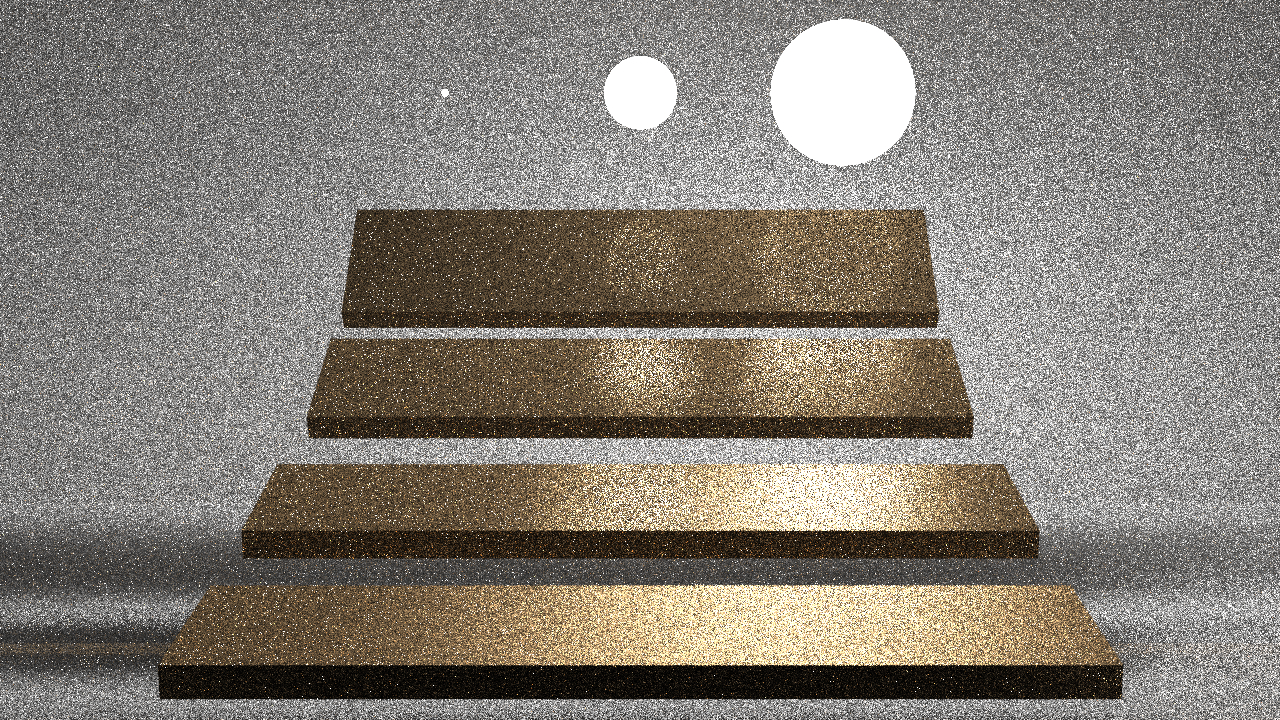
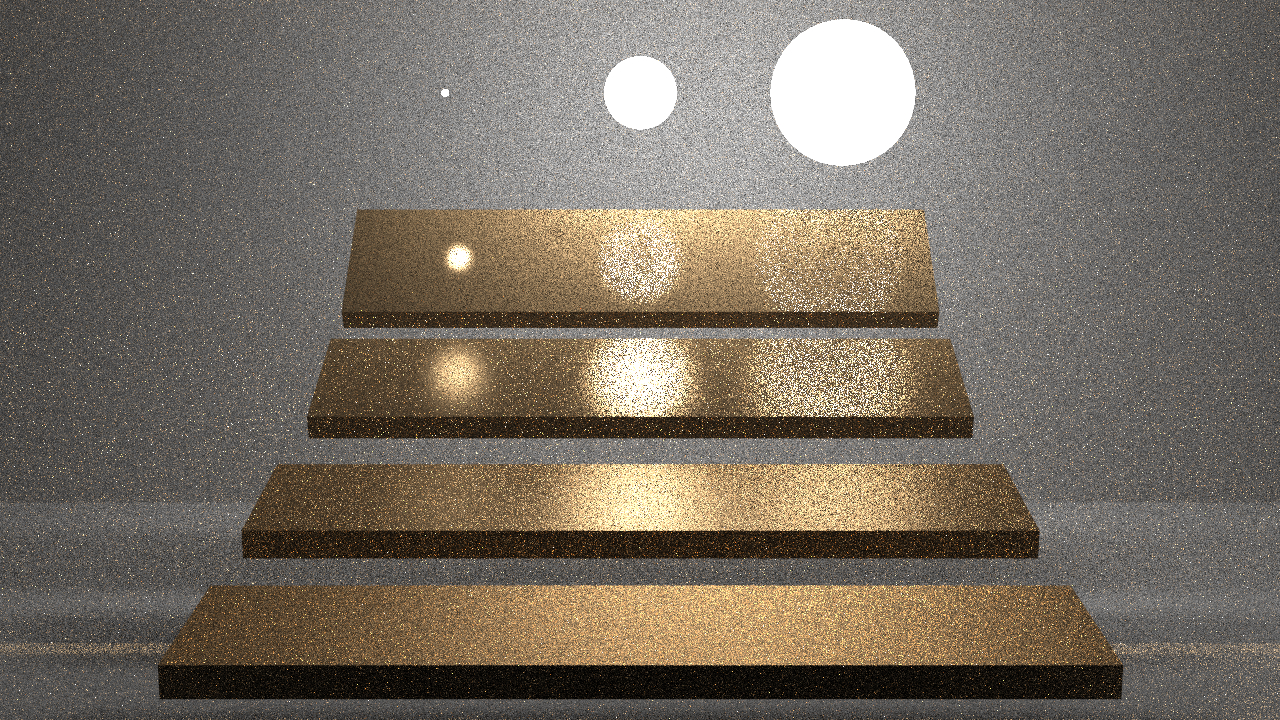
use PT possibility

diff --git a/main.cpp b/main.cpp
@@ -23,7 +23,7 @@
 using namespace glm;
 
 std::string dataPath = "data/";
-std::string sceneName = "veach-mis";
+std::string sceneName = "cornell-box";
 
 int materialNum = 0;
 Material* materialList = NULL;
@@ -52,7 +52,7 @@ Light* LoadLight();
 void LoadOBJ();
 
 const float RRThreshold = 0.8f;
-int SPP = 256;
+int SPP = 32;
 std::vector<PathPoint> paths;
 float* result;
 float maxResult = 0.0f;
@@ -65,7 +65,7 @@ IntersectionType intersectionTypeCheck(Ray r, float& t, IntersectionPoint& IP);
 extern bool CUDAIntersectionCheck(Ray r, float& t, IntersectionPoint& IP);
 vec3 pathTracing(IntersectionPoint IP, vec3 wo);
 vec3 bidirectionalPathTracing(IntersectionPoint IP, vec3 wo);
-vec3 MISCombine(std::vector<PathPoint>& cameraPath, vec3 cameraDirection, std::vector<PathPoint>& lightPath);
+vec3 MISCombine(std::vector<PathPoint>& cameraPath, vec3 cameraDirection, std::vector<PathPoint>& lightPath, Light* light);
 
 float ACESToneMapping(float color, float adapted_lum);
 float ACESFilm(float x);
@@ -86,7 +86,7 @@ int main() {
 	result = new float[cam->Width() * cam->Height() * 3];
 	image = new char[cam->Width() * cam->Height() * 3];
 
-	#pragma omp parallel for
+#pragma omp parallel for
 	for (int i = 0; i < cam->Width(); i++) {
 		for (int j = 0; j < cam->Height(); j++) {
 
@@ -100,7 +100,7 @@ int main() {
 
 				Ray r = cam->pixelRay(i, j);
 
-				if (i == 72 && j == cam->Height() - 37) {
+				if (i == 257 && j == cam->Height() - 553) {
 
 					bool xx = true;
 
@@ -148,9 +148,9 @@ int main() {
 
 	}
 
-	for (int i = 0; i < cam->Width(); i++) 
+	for (int i = 0; i < cam->Width(); i++)
 		for (int j = 0; j < cam->Height(); j++)
-			for (int k = 0; k < 3; k++) 
+			for (int k = 0; k < 3; k++)
 				image[(i + (cam->Height() - j - 1) * cam->Width()) * 3 + k] = pow(result[(j + i * cam->Height()) * 3 + k], 1.0f / gamma) * 255.0f;
 
 
@@ -158,7 +158,7 @@ int main() {
 
 }
 
-float ACESToneMapping(float color, float adapted_lum){
+float ACESToneMapping(float color, float adapted_lum) {
 
 	const float A = 2.51f;
 	const float B = 0.03f;
@@ -200,8 +200,8 @@ bool intersectionCheck(Ray r, float& t, IntersectionPoint& IP) {
 		}
 
 	}
-	/*double tmp_timing_finish = omp_get_wtime(); 
-	double tmp_timing_duration = tmp_timing_finish - tmp_timing_start; 
+	/*double tmp_timing_finish = omp_get_wtime();
+	double tmp_timing_duration = tmp_timing_finish - tmp_timing_start;
 	printf("CPU Time to compute : %.5f ns\n", tmp_timing_duration * 1e6);*/
 	return flag;
 
@@ -356,7 +356,7 @@ int randomLight() {
 
 }
 
-vec3 MISCombine(std::vector<PathPoint>& cameraPath, vec3 cameraDirection, std::vector<PathPoint>& lightPath) {
+vec3 MISCombine(std::vector<PathPoint>& cameraPath, vec3 cameraDirection, std::vector<PathPoint>& lightPath, Light* light) {
 
 	float sumP = 0.0f;
 	bool flag = false;
@@ -364,7 +364,7 @@ vec3 MISCombine(std::vector<PathPoint>& cameraPath, vec3 cameraDirection, std::v
 	int* paths = new int[cameraPath.size() + lightPath.size()]();
 	vec3* pathResult = new vec3[cameraPath.size() + lightPath.size()]();
 	float* pathPDF = new float[cameraPath.size() + lightPath.size()]();
-	
+
 	for (int i = 0; i < cameraPath.size(); i++) {
 
 		for (int j = 0; j < lightPath.size(); j++) {
@@ -384,8 +384,9 @@ vec3 MISCombine(std::vector<PathPoint>& cameraPath, vec3 cameraDirection, std::v
 				flag = true;
 				sumP += cameraPath[i].p * lightPath[j].p;
 				vec3 currentResult = lightPath[0].ip.mat->GetLightRadiance();
+				int k = 1;
 
-				for (int k = 1; k <= j; k++) {
+				for (; k <= j; k++) {
 
 					vec3 wi = lightPath[k - 1].ip.p - lightPath[k].ip.p;
 					float len = length(wi) * length(wi);
@@ -393,27 +394,68 @@ vec3 MISCombine(std::vector<PathPoint>& cameraPath, vec3 cameraDirection, std::v
 					vec3 wo = k == j ? normalize(cameraPath[i].ip.p - lightPath[j].ip.p) : normalize(lightPath[k + 1].ip.p - lightPath[k].ip.p);
 					vec3 BRDF = lightPath[k].ip.mat->phongModelBRDF(wi, wo, lightPath[k].ip.n, lightPath[k].ip.uv);
 					float G = max(dot(lightPath[k - 1].ip.n, -wi), 0.0f) * max(dot(lightPath[k].ip.n, wi), 0.0f) / len;
-					float COS = max(dot(lightPath[k].ip.n, wi), 0.0f) * max(dot(lightPath[k - 1].ip.n, -wi), 0.0f);
+					float COS = max(dot(lightPath[k].ip.n, wi), 0.0f)/* * max(dot(lightPath[k - 1].ip.n, -wi), 0.0f)*/;
 					currentResult = currentResult * COS * BRDF;
 
 				}
 
-				for (int k = i; k >= 0; k--) {
+				k = i;
 
-					vec3 wi = k == i? lightPath[j].ip.p - cameraPath[k].ip.p : cameraPath[k + 1].ip.p - cameraPath[k].ip.p;
+				if (j == 0) {
+
+					vec3 wi = lightPath[0].ip.p - cameraPath[i].ip.p;
+					float len = length(wi) * length(wi);
+					wi = normalize(wi);
+					vec3 wo = i == 0 ? cameraDirection : normalize(cameraPath[i - 1].ip.p - cameraPath[i].ip.p);
+					vec3 BRDF = cameraPath[i].ip.mat->phongModelBRDF(wi, wo, cameraPath[i].ip.n, cameraPath[i].ip.uv);
+					float G = max(dot(cameraPath[i].ip.n, wi), 0.0f) * max(dot(lightPath[0].ip.n, -wi), 0.0f) / len;
+					currentResult = currentResult * G * BRDF * light->area();
+					k--;
+
+				}
+
+				for (; k >= 0; k--) {
+
+					vec3 wi = k == i ? lightPath[j].ip.p - cameraPath[k].ip.p : cameraPath[k + 1].ip.p - cameraPath[k].ip.p;
 					float len = length(wi) * length(wi);
 					wi = normalize(wi);
 					vec3 wo = k == 0 ? cameraDirection : normalize(cameraPath[k - 1].ip.p - cameraPath[k].ip.p);
 					vec3 BRDF = cameraPath[k].ip.mat->phongModelBRDF(wi, wo, cameraPath[k].ip.n, cameraPath[k].ip.uv);
 					float G = max(dot(k == i ? lightPath[j].ip.n : cameraPath[k + 1].ip.n, -wi), 0.0f) * max(dot(cameraPath[k].ip.n, wi), 0.0f) / len;
-					float COS = max(dot(k == i ? lightPath[j].ip.n : cameraPath[k + 1].ip.n, -wi), 0.0f) * max(dot(cameraPath[k].ip.n, wi), 0.0f);
+					float COS = /*max(dot(k == i ? lightPath[j].ip.n : cameraPath[k + 1].ip.n, -wi), 0.0f) * */max(dot(cameraPath[k].ip.n, wi), 0.0f);
 					currentResult = currentResult * COS * BRDF;
 
 				}
 
-				currentResult /= cameraPath[i].p * lightPath[j].p;
+				float p = 1.0f;
+				for (int k = 0; k < i; k++) {
+
+					p *= cameraPath[k].ip.mat->getDiffusePossibility(cameraPath[k].ip.n, normalize(cameraPath[k + 1].ip.p - cameraPath[k].ip.p), k == 0 ? cameraDirection : normalize(cameraPath[k - 1].ip.p - cameraPath[k].ip.p));
+
+				}
+
+				if (j != 0) {
+
+					p *= cameraPath[i].ip.mat->getDiffusePossibility(cameraPath[i].ip.n, normalize(lightPath[j].ip.p - cameraPath[i].ip.p), i == 0 ? cameraDirection : normalize(cameraPath[i - 1].ip.p - cameraPath[i].ip.p));
+
+					for (int k = j; k >= 2; k--) p *= lightPath[k].ip.mat->getDiffusePossibility(lightPath[k].ip.n, normalize(lightPath[k - 1].ip.p - lightPath[k].ip.p), normalize(k == j ? normalize(cameraPath[i].ip.p - lightPath[k].ip.p) : normalize(lightPath[k + 1].ip.p - lightPath[k].ip.p)));
+
+				}
+
+				if (j == 0) currentResult /= p;
+				else currentResult /= p * lightPath[0].p;
+
+				/*if (j != 0) currentResult /= cameraPath[i].p * lightPath[j].p;
+				else currentResult /= cameraPath[i].p;*/
+				//currentResult /= p;
 				pathResult[i + j] += currentResult;
 				pathPDF[i + j] += (cameraPath[i].p * lightPath[j].p);
+
+				if (currentResult.x < 1.0f && currentResult.y > 1.0f && currentResult.z < 1.0f) {
+
+					bool xx = true;
+
+				}
 
 			}
 
@@ -424,6 +466,7 @@ vec3 MISCombine(std::vector<PathPoint>& cameraPath, vec3 cameraDirection, std::v
 	if (!flag) return vec3(0);
 	for (int i = 0; i < cameraPath.size() + lightPath.size(); i++)
 		if (paths[i] != 0) MISResult += pathResult[i] / (1.0f * paths[i]);
+
 	return MISResult;
 
 }
@@ -452,7 +495,7 @@ vec3 bidirectionalPathTracing(IntersectionPoint IP, vec3 wo) {
 
 	}
 
-	Light* light = &lights[randomLight()];
+	Light* light = &lights[rand() % lightNum];
 	Ray lightRay;
 	std::vector<PathPoint> lightPath;
 	lightPath.clear();
@@ -486,6 +529,6 @@ vec3 bidirectionalPathTracing(IntersectionPoint IP, vec3 wo) {
 
 	}
 
-	return MISCombine(cameraPath, wo, lightPath);
+	return MISCombine(cameraPath, wo, lightPath, light);
 
 }

diff --git a/triangle.h b/triangle.h
@@ -85,7 +85,7 @@ public:
 
 	}
 
-	virtual vec3 uniformSampling(IntersectionPoint& IP) {
+	virtual float uniformSampling(IntersectionPoint& IP) {
 
 		float u1 = rand() * 1.0f / RAND_MAX;
 		float u2 = rand() * 1.0f / RAND_MAX;
@@ -94,7 +94,7 @@ public:
 		IP.n = (1 - u1) * sqrt(u2) * n[0] + u1 * sqrt(u2) * n[1] + (1 - sqrt(u2)) * n[2];
 		IP.uv = (1 - u1) * sqrt(u2) * uv[0] + u1 * sqrt(u2) * uv[1] + (1 - sqrt(u2)) * uv[2];
 
-		return (1 - u1) * sqrt(u2) * v[0] + u1 * sqrt(u2) * v[1] + (1 - sqrt(u2)) * v[2];
+		return 1.0f / this->area();
 
 	}
 
@@ -226,7 +226,7 @@ public:
 
 	}
 
-	virtual vec3 uniformSampling(IntersectionPoint& IP) {
+	virtual float uniformSampling(IntersectionPoint& IP) {
 
 		float p = rand() * 1.0f / RAND_MAX * A;
 		float a = 0;
@@ -243,7 +243,8 @@ public:
 
 		}
 
-		return t->uniformSampling(IP);
+		t->uniformSampling(IP);
+		return 1.0f / A;
 
 	}
 

diff --git a/light.h b/light.h
@@ -178,7 +178,7 @@ public:
 
 	}
 
-	virtual vec3 uniformSampling(IntersectionPoint& IP) {
+	virtual float uniformSampling(IntersectionPoint& IP) {
 
 		float p = rand() * 1.0f / RAND_MAX * A;
 		float a = 0;
@@ -195,14 +195,16 @@ public:
 
 		}
 
-		return m->uniformSampling(IP);
+		m->uniformSampling(IP);
+		return 1.0f / A;
 
 	}
 
 	vec3 randomLightRay(vec3 startPoint, Ray& r) {
 
 		IntersectionPoint tmpIP;
-		vec3 o = this->uniformSampling(tmpIP);
+		this->uniformSampling(tmpIP);
+		vec3 o = tmpIP.p;
 		vec3 d = normalize(o - startPoint);
 		r = Ray(startPoint, d);
 		return o;

diff --git a/mesh.h b/mesh.h
@@ -15,7 +15,7 @@ public:
 	virtual void AABB(vec3& v1, vec3& v2) = 0;
 	virtual float area() = 0;
 	virtual bool intersect(Ray r, float &t, IntersectionPoint &IP) = 0;
-	virtual vec3 uniformSampling(IntersectionPoint& IP) = 0;
+	virtual float uniformSampling(IntersectionPoint& IP) = 0;
 
 	static bool cmpx(Mesh* a, Mesh* b) {
 
